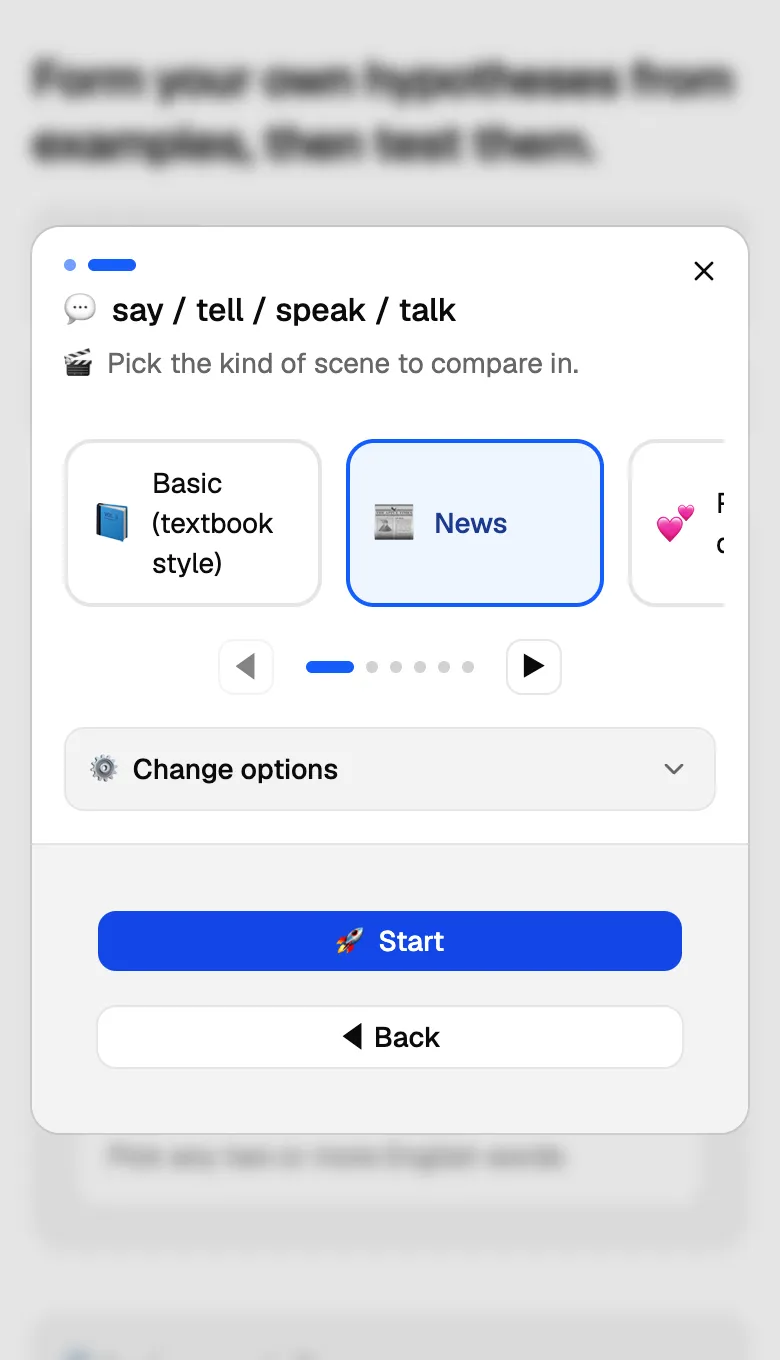
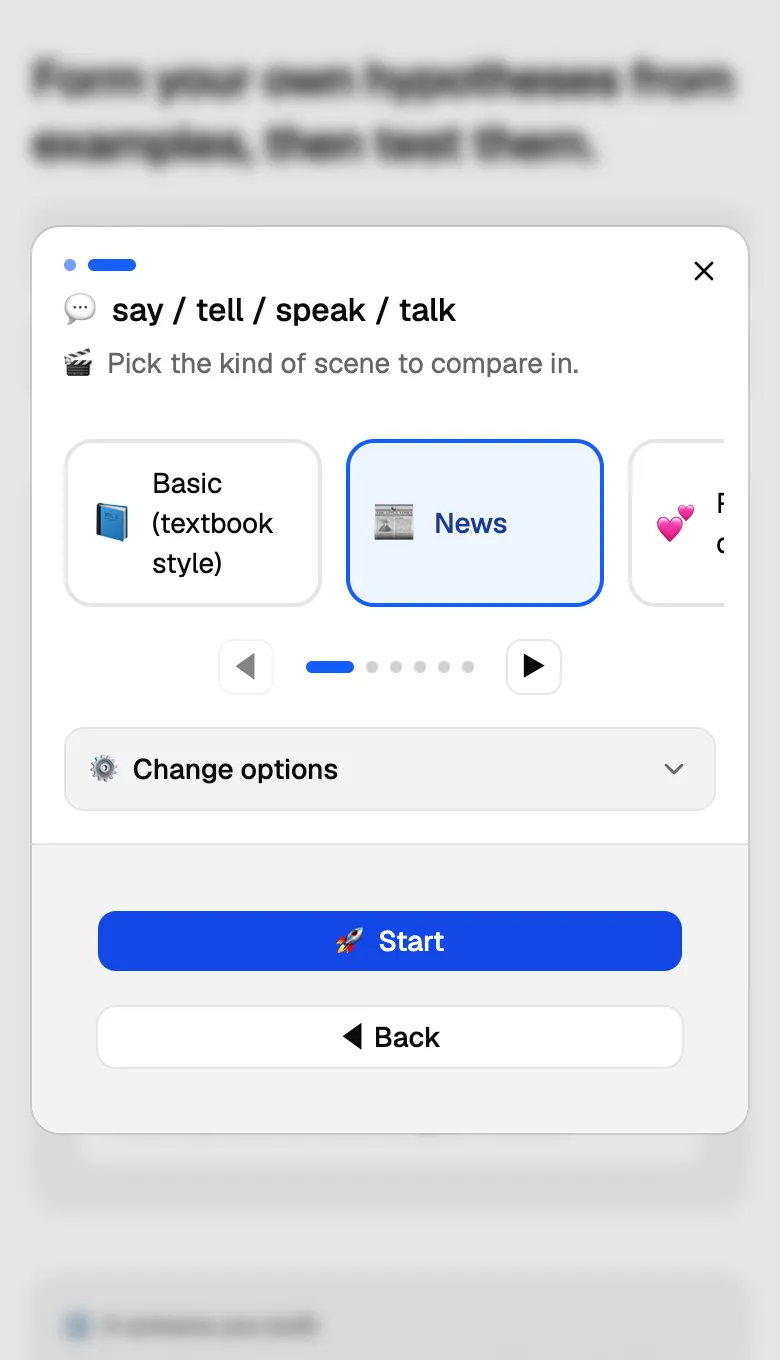
言語の折りたたみを「🌐 言語」にして右へ移し、母語を日本語に固定する (#45)
* 言語の折りたたみを「🌐 言語」にし、このアプリについての右へ移す

見出しは OS/ブラウザの言語（navigator.languages[0]）で出す。画面の言語が読めない人でも、
切り替える場所を見つけられるようにするため。対応外の言語は "Language" にする。
ヘルプのスクリーンショットも撮り直した。

* 母語の選択肢をなくし、日本語に固定する

学習者のほぼ全員が日本語話者で、画面の言語と並んだ母語の選択が分かりにくかったため。
画面の言語とは分けたままにして、英語の画面でも英語のコースを使えるようにしている。
保存済みの defaultL1 は読み込み時に捨て、学ぶ言語が日本語なら既定（英語）に戻す。
学ぶ言語の選択肢からは日本語を外した。

---------

Changed region(s): [[0.1231, 0.8338, 0.7385, 0.8647], [0.0615, 0.9574, 0.4, 1.0]]

diff --git a/src/pages/Home.tsx b/src/pages/Home.tsx
@@ -15,8 +15,8 @@ import { ANALYTICS_ENABLED } from "@/lib/analytics";
 import { courses, languageName, showsTargetList, type CourseGroup } from "@/lib/courses";
 import { db, deleteInquiry } from "@/lib/db";
 import type { Inquiry } from "@/lib/types";
-import { useT } from "@/lib/i18n";
-import { setTutorial, useSettings } from "@/lib/settings";
+import { languageWord, useT } from "@/lib/i18n";
+import { NATIVE_LANGUAGE, setTutorial, useSettings } from "@/lib/settings";
 import { fmtDate } from "@/lib/text";
 import { cn } from "@/lib/utils";
 
@@ -34,7 +34,7 @@ function groupProgress(g: CourseGroup, inquiries: Inquiry[], l1: string, l2: str
   return { latest: remaining.length === 0 ? own[0] : undefined, started: own.length > 0, remaining, covered };
 }
 
-/** A language name shown like a picked dropdown value, in the "🌐 学習する言語を変更する" hint. */
+/** A language name shown like a picked dropdown value, in the "🌐 Language" hint. */
 function LangPill({ children }: { children: ReactNode }) {
   return <span className="rounded-md border bg-muted px-1.5 py-0.5">{children}</span>;
 }
@@ -61,7 +61,7 @@ const BOOK_URL = "https://bookplus.nikkei.com/atcl/catalog/26/03/23/02546/";
 export function Home() {
   const t = useT();
   const nav = useNavigate();
-  const { uiLang, defaultL1, defaultL2, tutorial } = useSettings();
+  const { uiLang, defaultL2, tutorial } = useSettings();
   const [dialog, setDialog] = useState<{ group: CourseGroup | null; preselect?: string[] } | null>(null);
   const loadedInquiries = useLiveQuery(() => db.inquiries.orderBy("updatedAt").reverse().toArray(), []);
   const loadedNotes = useLiveQuery(() => db.schemaNotes.orderBy("createdAt").reverse().limit(1).toArray(), []);
@@ -97,7 +97,7 @@ export function Home() {
   // reopens its latest inquiry instead of starting another: a new genre or verification goes into the same inquiry,
   // so the hypothesis keeps growing in one place. Those groups move to the end. A group explored only partway
   // (say & tell of four) stays in place and starts its next inquiry with the words not yet compared.
-  const cards = ownCourses.flatMap((course) => course.groups).map((g) => ({ g, ...groupProgress(g, inquiries, defaultL1, defaultL2) }));
+  const cards = ownCourses.flatMap((course) => course.groups).map((g) => ({ g, ...groupProgress(g, inquiries, NATIVE_LANGUAGE, defaultL2) }));
   cards.sort((a, b) => Number(!!a.latest) - Number(!!b.latest));
   // Courses come in the order they are recommended, so the next group is the first unfinished one.
   const nextGroup = cards.find((x) => !x.latest)?.g;
@@ -118,24 +118,6 @@ export function Home() {
       <section className="mb-8">
         <h1 className="text-2xl font-semibold tracking-tight">{t({ ja: "例文から自分で仮説を立てて、確かめる。", en: "Form your own hypotheses from examples, then test them." })}</h1>
         <div className="mt-4 grid items-start gap-3 sm:grid-cols-2">
-          <Disclosure
-            label={t({ ja: "🌐 学習する言語を変更する", en: "🌐 Change study languages" })}
-            hint={
-              <span className="text-foreground">
-                {uiLang === "ja" ? (
-                  <>
-                    <LangPill>{languageName(defaultL1, uiLang)}</LangPill>で<LangPill>{languageName(defaultL2, uiLang)}</LangPill>を学習する
-                  </>
-                ) : (
-                  <>
-                    Learning <LangPill>{languageName(defaultL2, uiLang)}</LangPill> in <LangPill>{languageName(defaultL1, uiLang)}</LangPill>
-                  </>
-                )}
-              </span>
-            }
-          >
-            <LanguageFields />
-          </Disclosure>
           <Disclosure label={t({ ja: "📖 このアプリについて", en: "📖 About this app" })}>
             <p className="text-sm whitespace-pre-line text-muted-foreground">
               {t({ ja: "似た意味の語を並べ、AIに例文だけを出させて比較し、仮説を立てて翻訳テストで検証する。\n今井むつみ先生の", en: "Line up similar words, have the AI produce examples only, compare, hypothesize, and test by translation.\nAn unofficial, fan-made notebook following the method in Professor Mutsumi Imai's book " })}
@@ -163,6 +145,24 @@ export function Home() {
                 })}
               </p>
             )}
+          </Disclosure>
+          <Disclosure
+            label={`🌐 ${languageWord()}`}
+            hint={
+              <span className="text-foreground">
+                {uiLang === "ja" ? (
+                  <>
+                    <LangPill>{languageName(NATIVE_LANGUAGE, uiLang)}</LangPill>で<LangPill>{languageName(defaultL2, uiLang)}</LangPill>を学習する
+                  </>
+                ) : (
+                  <>
+                    Learning <LangPill>{languageName(defaultL2, uiLang)}</LangPill> in <LangPill>{languageName(NATIVE_LANGUAGE, uiLang)}</LangPill>
+                  </>
+                )}
+              </span>
+            }
+          >
+            <LanguageFields />
           </Disclosure>
         </div>
       </section>
@@ -256,7 +256,7 @@ export function Home() {
         </section>
       )}
 
-      {dialog && <NewInquiryDialog key={dialog.group?.id ?? "custom"} l1={defaultL1} l2={defaultL2} group={dialog.group} preselect={dialog.preselect} open onOpenChange={(o) => !o && setDialog(null)} />}
+      {dialog && <NewInquiryDialog key={dialog.group?.id ?? "custom"} l1={NATIVE_LANGUAGE} l2={defaultL2} group={dialog.group} preselect={dialog.preselect} open onOpenChange={(o) => !o && setDialog(null)} />}
     </div>
   );
 }

diff --git a/src/components/LanguageFields.tsx b/src/components/LanguageFields.tsx
@@ -1,29 +1,21 @@
 import { Select, SelectContent, SelectItem, SelectTrigger, SelectValue } from "@/components/ui/select";
-import { chooseLanguage, languageName, languageOptions } from "@/lib/courses";
+import { languageName, languageOptions } from "@/lib/courses";
 import { useT } from "@/lib/i18n";
-import { setSettings, useSettings } from "@/lib/settings";
+import { NATIVE_LANGUAGE, setSettings, useSettings } from "@/lib/settings";
 
-/** Native language, language being learned, and screen language (the body of "🌐 学習する言語を変更する"). */
+/** Language being learned and screen language (the body of "🌐 言語"). */
 export function LanguageFields() {
   const t = useT();
-  const { uiLang, defaultL1, defaultL2 } = useSettings();
-  const langItems = languageOptions.map((c) => ({ value: c, label: languageName(c, uiLang) }));
-  // picking one side may move the other, so both are written together
-  const pick = (side: "l1" | "l2", v: string) => {
-    const { l1, l2 } = chooseLanguage(side, v, { l1: defaultL1, l2: defaultL2 });
-    setSettings({ defaultL1: l1, defaultL2: l2 });
-  };
+  const { uiLang, defaultL2 } = useSettings();
+  // the native language is fixed, and studying it would make no sense
+  const learnable = languageOptions.filter((c) => c !== NATIVE_LANGUAGE);
+  const langItems = learnable.map((c) => ({ value: c, label: languageName(c, uiLang) }));
   return (
     <div className="grid grid-cols-[6rem_1fr] items-center gap-2 text-sm">
-      <span className="text-muted-foreground">{t({ ja: "母語", en: "I speak" })}</span>
-      <Select items={langItems} value={defaultL1} onValueChange={(v) => v && pick("l1", v)}>
-        <SelectTrigger size="sm" className="w-full"><SelectValue /></SelectTrigger>
-        <SelectContent>{languageOptions.map((c) => <SelectItem key={c} value={c}>{languageName(c, uiLang)}</SelectItem>)}</SelectContent>
-      </Select>
       <span className="text-muted-foreground">{t({ ja: "学ぶ言語", en: "Learning" })}</span>
-      <Select items={langItems} value={defaultL2} onValueChange={(v) => v && pick("l2", v)}>
+      <Select items={langItems} value={defaultL2} onValueChange={(v) => v && setSettings({ defaultL2: v })}>
         <SelectTrigger size="sm" className="w-full"><SelectValue /></SelectTrigger>
-        <SelectContent>{languageOptions.map((c) => <SelectItem key={c} value={c}>{languageName(c, uiLang)}</SelectItem>)}</SelectContent>
+        <SelectContent>{learnable.map((c) => <SelectItem key={c} value={c}>{languageName(c, uiLang)}</SelectItem>)}</SelectContent>
       </Select>
       <span className="text-muted-foreground">{t({ ja: "画面の言語", en: "Screen" })}</span>
       <Select items={[{ value: "ja", label: "日本語" }, { value: "en", label: "English" }]} value={uiLang} onValueChange={(v) => v && setSettings({ uiLang: v as "ja" | "en" })}>

diff --git a/src/lib/settings.ts b/src/lib/settings.ts
@@ -1,5 +1,4 @@
 import { useSyncExternalStore } from "react";
-import { chooseLanguage } from "./courses";
 import type { Provider } from "./llm/providers";
 
 export type Theme = "light" | "dark" | "system";
@@ -20,6 +19,13 @@ export interface TutorialState {
   step: number;
 }
 
+/**
+ * The learner's native language (inquiry.l1). It used to be a setting of its own, but nearly every learner
+ * speaks Japanese, and a second, separate choice next to the screen language only confused people. It stays
+ * apart from uiLang so a Japanese speaker can use the English screen and still take the English courses.
+ */
+export const NATIVE_LANGUAGE = "ja";
+
 export interface Settings {
   /** which tab is active in Settings: the shared free tier, or one provider with the learner's own key */
   provider: Provider | "shared";
@@ -28,7 +34,6 @@ export interface Settings {
   uiLang: "ja" | "en";
   /** "system" follows the OS light/dark preference */
   theme: Theme;
-  defaultL1: string;
   defaultL2: string;
   showTranslations: boolean;
   ttsRate: number;
@@ -52,7 +57,6 @@ export const defaultSettings: Settings = {
   qaEnabled: true,
   uiLang: "ja",
   theme: "system",
-  defaultL1: "ja",
   defaultL2: "en",
   showTranslations: true,
   ttsRate: 0.95,
@@ -64,18 +68,15 @@ function load(): Settings {
   try {
     const raw = localStorage.getItem(KEY);
     if (!raw) return defaultSettings;
-    const parsed = JSON.parse(raw) as Partial<Settings> & { apiKey?: string; model?: string };
+    const { defaultL1: _dropped, ...parsed } = JSON.parse(raw) as Partial<Settings> & { apiKey?: string; model?: string; defaultL1?: string };
     const merged: Settings = {
       ...defaultSettings,
       ...parsed,
       providers: { ...defaultSettings.providers, ...(parsed.providers ?? {}) },
     };
-    // A pair saved as the same language on both sides was reachable before chooseLanguage, and would
-    // leave the learner studying the language they speak. Free it on the way in, so a profile that is
-    // never touched again does not keep starting inquiries like that.
-    if (merged.defaultL1 === merged.defaultL2) {
-      merged.defaultL2 = chooseLanguage("l1", merged.defaultL1, { l1: merged.defaultL1, l2: merged.defaultL2 }).l2;
-    }
+    // Learning the native language makes no sense (the prompt would read "studies Japanese … native language
+    // is Japanese"). A profile saved with a different native language could have chosen it, so free it on the way in.
+    if (merged.defaultL2 === NATIVE_LANGUAGE) merged.defaultL2 = defaultSettings.defaultL2;
     // migrate the v1 single-key layout
     if (parsed.apiKey && !merged.providers.anthropic.apiKey) {
       merged.providers.anthropic = { apiKey: parsed.apiKey, model: parsed.model ?? "claude-opus-5" };

diff --git a/src/components/tutorial/Welcome.tsx b/src/components/tutorial/Welcome.tsx
@@ -13,8 +13,8 @@ import { Recommended } from "@/components/ui/recommended";
 import { StepDots } from "@/components/ui/step-dots";
 import { importAll } from "@/lib/backup";
 import { showsTargetList } from "@/lib/courses";
-import { useT } from "@/lib/i18n";
-import { setTutorial, useSettings } from "@/lib/settings";
+import { languageWord, useT } from "@/lib/i18n";
+import { NATIVE_LANGUAGE, setTutorial, useSettings } from "@/lib/settings";
 import { startTutorial, tutorialGroup } from "@/lib/tutorial";
 import { cn } from "@/lib/utils";
 
@@ -25,7 +25,7 @@ import { cn } from "@/lib/utils";
  */
 export function Welcome() {
   const t = useT();
-  const { uiLang, defaultL1, defaultL2, provider } = useSettings();
+  const { uiLang, defaultL2, provider } = useSettings();
   const nav = useNavigate();
   const [mode, setMode] = useState<"tour" | "import">("tour");
   const [step, setStep] = useState(0);
@@ -40,7 +40,7 @@ export function Welcome() {
   async function start() {
     setStarting(true);
     const custom = group ? null : words.map((w) => ({ label: w.trim(), kind: w.trim().includes(" ") ? ("phrase" as const) : ("word" as const) }));
-    const { id, generate } = await startTutorial(defaultL1, defaultL2, custom);
+    const { id, generate } = await startTutorial(NATIVE_LANGUAGE, defaultL2, custom);
     nav(`/inquiry/${id}`, { state: { generate } satisfies StartState });
   }
 
@@ -100,7 +100,7 @@ export function Welcome() {
               <Button variant="recommended" size="lg" onClick={() => setStep(1)}>{t({ ja: "🚀 はじめる", en: "🚀 Get started" })}</Button>
             </Recommended>
           </NavRow>
-          <Disclosure className="mt-8" label="🌐 学習する言語を変更する / Language">
+          <Disclosure className="mt-8" label={`🌐 ${languageWord()}`}>
             <LanguageFields />
           </Disclosure>
         </div>

diff --git a/src/lib/settings.test.ts b/src/lib/settings.test.ts
@@ -32,15 +32,15 @@ describe("loading", () => {
     expect(getSettings().providers.gemini).toEqual(defaultSettings.providers.gemini);
   });
 
-  it("frees a pair stored with the same language on both sides, without waiting for the learner to touch it", async () => {
-    const { getSettings } = await freshSettings({ defaultL1: "en", defaultL2: "en" });
-    expect(getSettings().defaultL1).toBe("en");
-    expect(getSettings().defaultL2).not.toBe("en");
+  it("drops the old native-language setting and keeps the language being learned", async () => {
+    const { getSettings } = await freshSettings({ uiLang: "en", defaultL1: "en", defaultL2: "fr" });
+    expect(getSettings()).toMatchObject({ uiLang: "en", defaultL2: "fr" });
+    expect(getSettings()).not.toHaveProperty("defaultL1");
   });
 
-  it("leaves a stored pair of two different languages exactly as it was", async () => {
-    const { getSettings } = await freshSettings({ defaultL1: "fr", defaultL2: "ja" });
-    expect(getSettings()).toMatchObject({ defaultL1: "fr", defaultL2: "ja" });
+  it("frees a stored language being learned that is the fixed native language", async () => {
+    const { getSettings, defaultSettings } = await freshSettings({ defaultL1: "en", defaultL2: "ja" });
+    expect(getSettings().defaultL2).toBe(defaultSettings.defaultL2);
   });
 
   it("keeps provider entries that were stored and defaults the others", async () => {

diff --git a/tests/ui/flows.test.ts b/tests/ui/flows.test.ts
@@ -216,18 +216,17 @@ describe("settings", () => {
     expect(await app.page.evaluate(() => document.documentElement.lang)).toBe("en");
   });
 
-  it("moves the language being learned aside when the native language takes its place", async () => {
+  it("offers every language but the native Japanese to learn, and stores the pick", async () => {
     app = await openApp({ seed: true });
     await app.go("/");
-    await app.page.getByRole("button", { name: /学習する言語を変更する/ }).click();
+    await app.page.getByRole("button", { name: /🌐/ }).click();
 
-    // 母語 = 英語, while 学ぶ言語 is still 英語
-    await app.page.getByRole("combobox").filter({ hasText: "日本語" }).first().click();
-    await app.page.getByRole("option", { name: "英語", exact: true }).click();
+    await app.page.getByRole("combobox").filter({ hasText: "英語" }).click();
+    expect(await app.page.getByRole("option", { name: "日本語", exact: true }).count()).toBe(0);
+    await app.page.getByRole("option", { name: "フランス語", exact: true }).click();
 
     const stored = await app.page.evaluate(() => JSON.parse(localStorage.getItem("abduction-learning.settings")!));
-    expect(stored.defaultL1).toBe("en");
-    expect(stored.defaultL2).toBe("ja");
+    expect(stored.defaultL2).toBe("fr");
   });
 
   it("turns the page dark and keeps it dark after a reload", async () => {

diff --git a/src/components/FeedbackDialog.tsx b/src/components/FeedbackDialog.tsx
@@ -9,7 +9,7 @@ import { Textarea } from "@/components/ui/textarea";
 import { ToggleGroup, ToggleGroupItem } from "@/components/ui/toggle-group";
 import { sendFeedback, type FeedbackKind } from "@/lib/llm/client";
 import { useT, type Localized } from "@/lib/i18n";
-import { useSettings } from "@/lib/settings";
+import { NATIVE_LANGUAGE, useSettings } from "@/lib/settings";
 
 const kinds: { value: FeedbackKind; label: Localized }[] = [
   { value: "usage", label: { ja: "🤔 使い方が分からない", en: "🤔 How do I…?" } },
@@ -40,7 +40,7 @@ export function FeedbackDialog({ open, onOpenChange, initialKind }: { open: bool
     screen: pathname + search,
     uiLang: s.uiLang,
     ai: s.provider === "shared" ? "shared (free tier)" : `${s.provider} / ${s.providers[s.provider].model}`,
-    languages: `${s.defaultL1} → ${s.defaultL2}`,
+    languages: `${NATIVE_LANGUAGE} → ${s.defaultL2}`,
     tutorial: s.tutorial.status,
     viewport: `${window.innerWidth}×${window.innerHeight}`,
     browser: navigator.userAgent,

diff --git a/src/lib/i18n.ts b/src/lib/i18n.ts
@@ -11,3 +11,18 @@ export function useT() {
   const { uiLang } = useSettings();
   return (l: Localized) => pick(l, uiLang);
 }
+
+/** "Language" in each language the app offers, keyed by primary subtag. */
+const LANGUAGE_WORD: Record<string, string> = {
+  ja: "言語", en: "Language", zh: "语言", ko: "언어", fr: "Langue", de: "Sprache", es: "Idioma",
+  it: "Lingua", pt: "Idioma", ru: "Язык", vi: "Ngôn ngữ", th: "ภาษา", id: "Bahasa",
+};
+
+/**
+ * Follows the browser's language rather than uiLang: someone who landed on a screen they can't read
+ * still needs to recognise the control that switches it.
+ */
+export function languageWord() {
+  const code = (navigator.languages?.[0] ?? navigator.language ?? "").split("-")[0].toLowerCase();
+  return LANGUAGE_WORD[code] ?? "Language";
+}

diff --git a/src/components/ui/disclosure.tsx b/src/components/ui/disclosure.tsx
@@ -6,7 +6,7 @@ import { cn } from "@/lib/utils";
 /**
  * A row that opens to reveal secondary content (options, explanations, rarely used actions).
  * The app-wide rule: anything a first-time learner does not need is folded behind one of these,
- * labelled with a leading emoji and a verb, e.g. "🌐 学習する言語を変更する".
+ * labelled with a leading emoji and a verb, e.g. "🌐 言語".
  */
 export function Disclosure({
   label,

diff --git a/src/dev/demo.ts b/src/dev/demo.ts
@@ -191,7 +191,6 @@ export async function seedDemo(lang: "ja" | "en") {
   const hasKey = Object.values(providers).some((p) => p.apiKey);
   setSettings({
     uiLang: lang,
-    defaultL1: "ja",
     defaultL2: "en",
     ...(hasKey ? {} : { provider: "anthropic", providers: { ...providers, anthropic: { ...defaultSettings.providers.anthropic, apiKey: "demo" } } }),
     showTranslations: true,

diff --git a/docs/help-screenshots.md b/docs/help-screenshots.md
@@ -33,7 +33,7 @@ pnpm shots:check
 
 ```
 ja/course: the screen no longer says what the screenshot shows
-  screenshot: … 🌐 学習する言語を変更する 日本語 → 英語 …
+  screenshot: … 🌐 言語 日本語 → 英語 …
   screen now: … 🌐 学ぶ言語を切り替える 日本語 → 英語 …
 
 Re-shoot those slides, then commit the pictures with the change:
